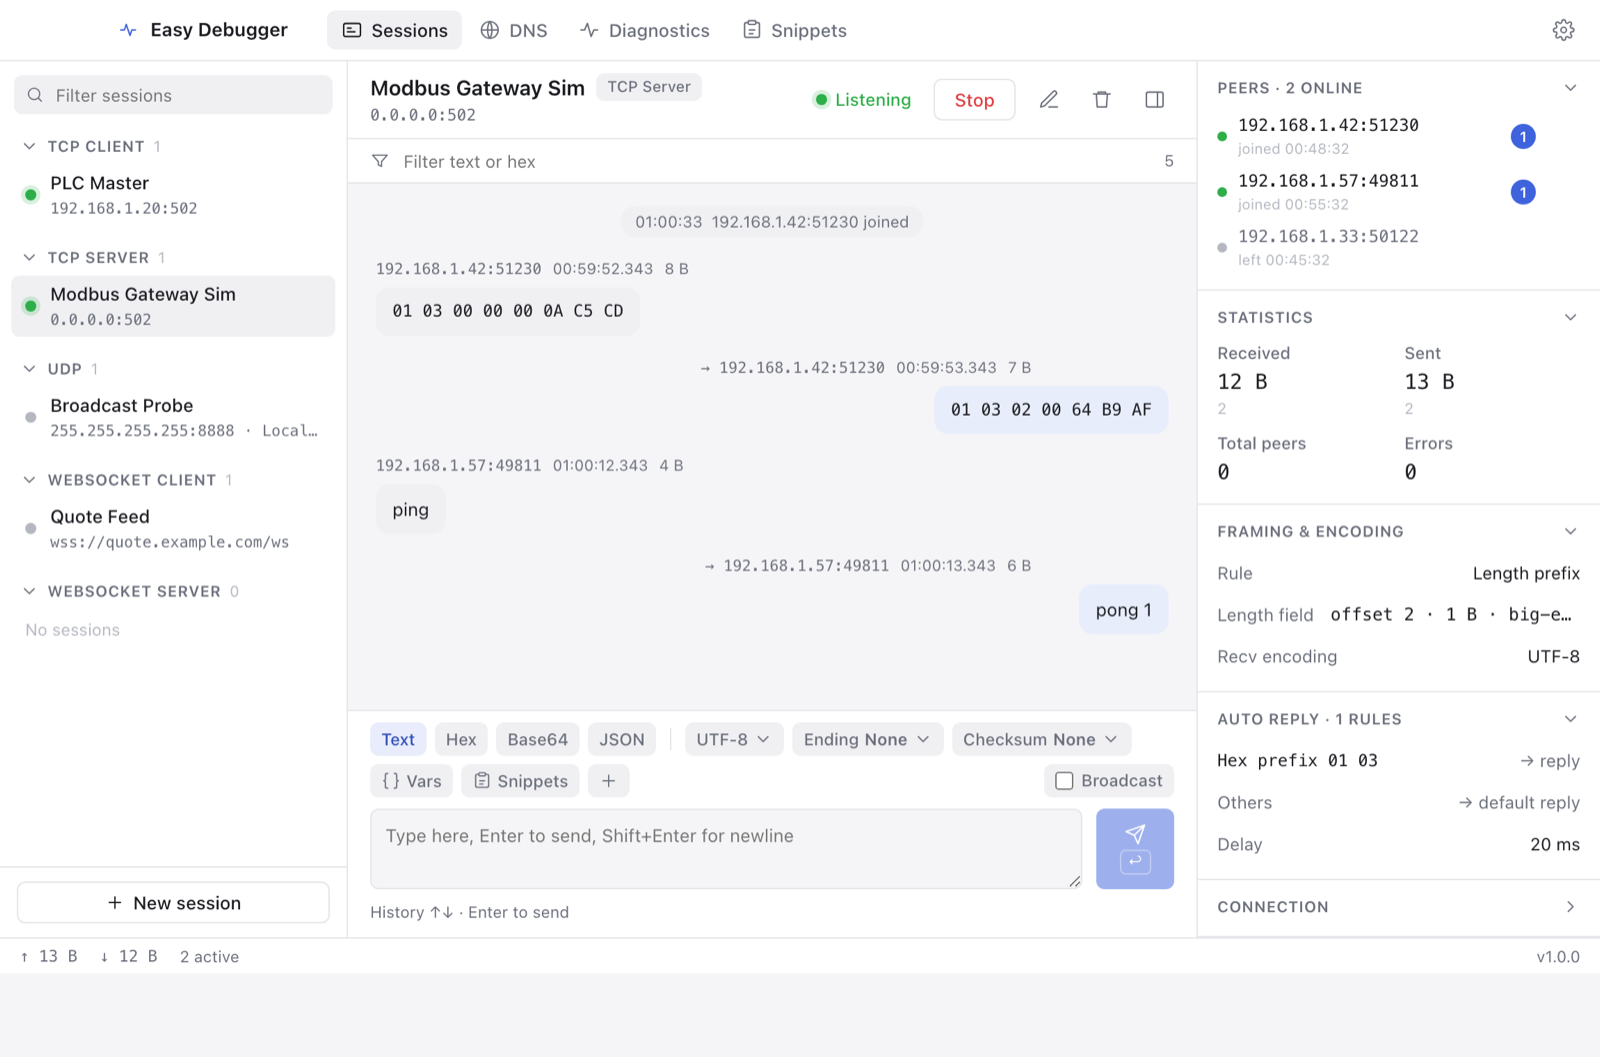
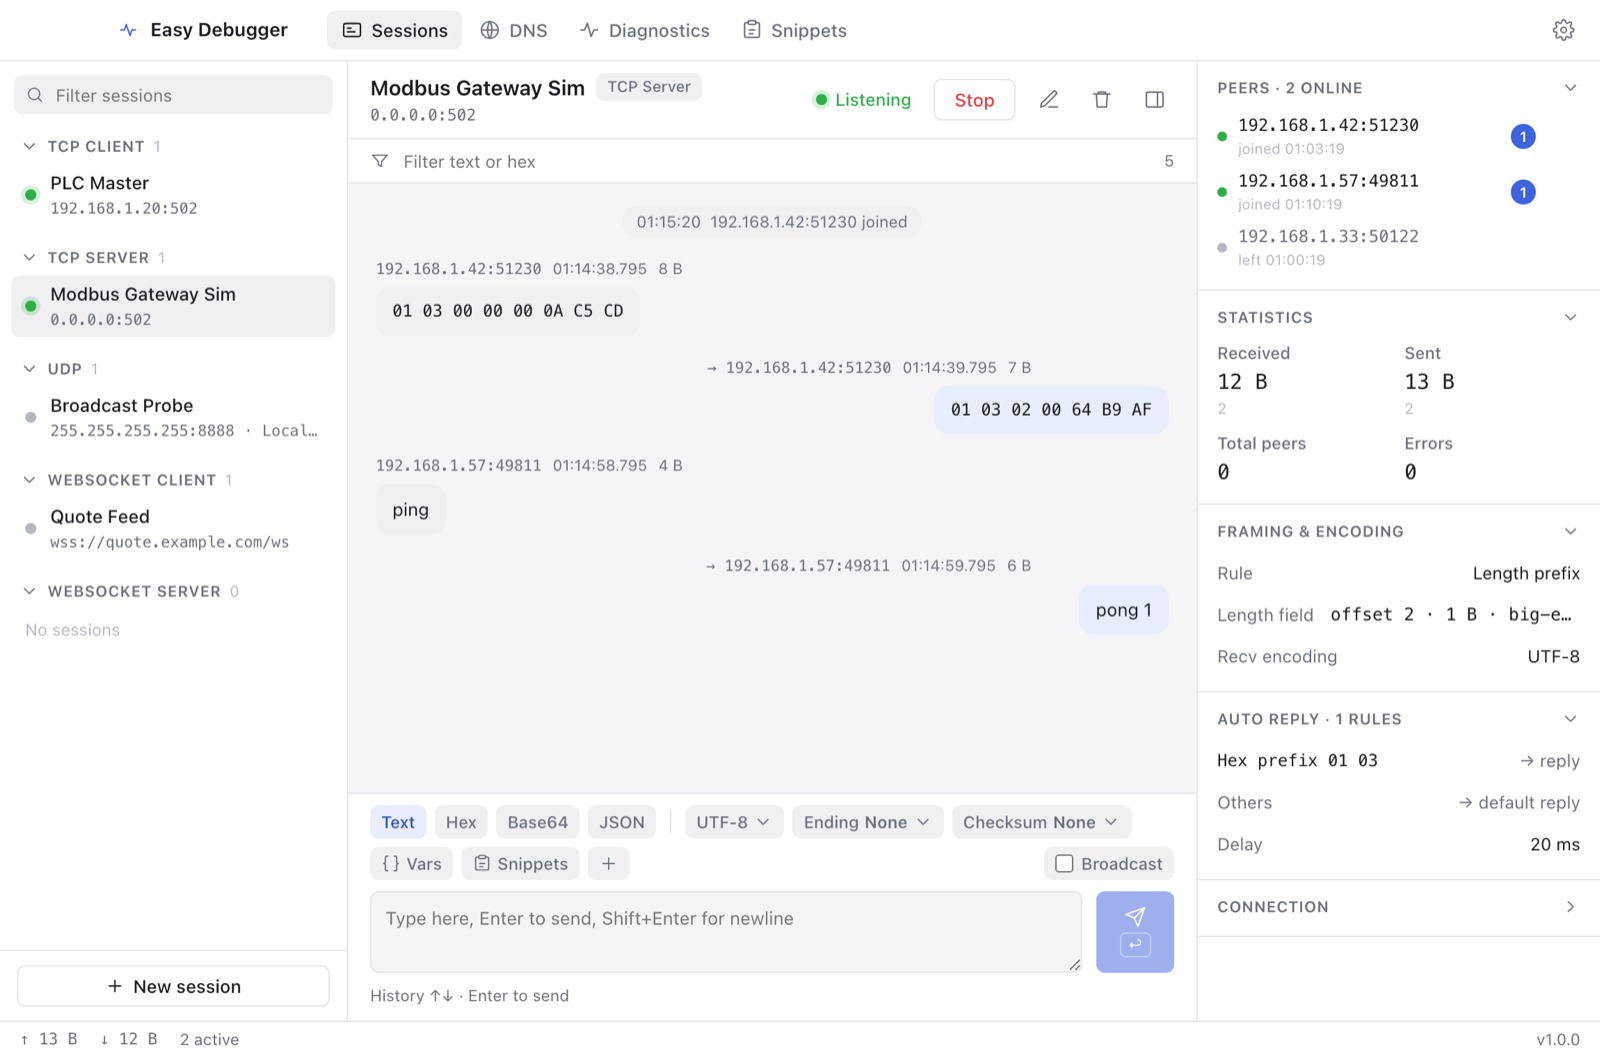
Fix shell not filling the viewport; refresh all screenshots
The desktop and mobile shells used height: 100%, which depends on an
unbroken parent chain; the Naive UI provider wrappers break it, so the
shell did not fill the window and the status bar floated above empty
space. Use viewport units (100vh / 100dvh) so the shell always fills.

Recapture every screenshot (English and Chinese, desktop and mobile)
and both demo GIFs against the fixed layout, and drop an unused image.

diff --git a/src/layouts/MobileLayout.vue b/src/layouts/MobileLayout.vue
@@ -161,7 +161,7 @@ const peers = computed(() => rt.value?.peers ?? []);
 </template>
 
 <style scoped>
-.m-shell { height: 100%; width: 100%; max-width: 100vw; display: flex; flex-direction: column; background: var(--bg); overflow: hidden; }
+.m-shell { height: 100dvh; width: 100%; max-width: 100vw; display: flex; flex-direction: column; background: var(--bg); overflow: hidden; }
 .page { flex: 1; min-height: 0; min-width: 0; display: flex; flex-direction: column; overflow: hidden; }
 .page.chat { min-width: 0; }
 .m-head { display: flex; align-items: center; gap: 8px; height: 52px; padding: 0 12px; padding-top: env(safe-area-inset-top); background: var(--panel); border-bottom: 1px solid var(--border); flex-shrink: 0; }

diff --git a/src/layouts/DesktopLayout.vue b/src/layouts/DesktopLayout.vue
@@ -58,7 +58,7 @@ const totals = computed(() => {
 </template>
 
 <style scoped>
-.shell { height: 100%; display: flex; flex-direction: column; }
+.shell { height: 100vh; display: flex; flex-direction: column; }
 .topbar { height: 44px; display: flex; align-items: center; gap: 8px; padding: 0 12px 0 84px; border-bottom: 1px solid var(--border); background: var(--panel); flex-shrink: 0; }
 .brand { display: flex; align-items: center; gap: 8px; font-weight: 600; font-size: 13.5px; }
 .brand .icon { stroke: var(--accent); }
